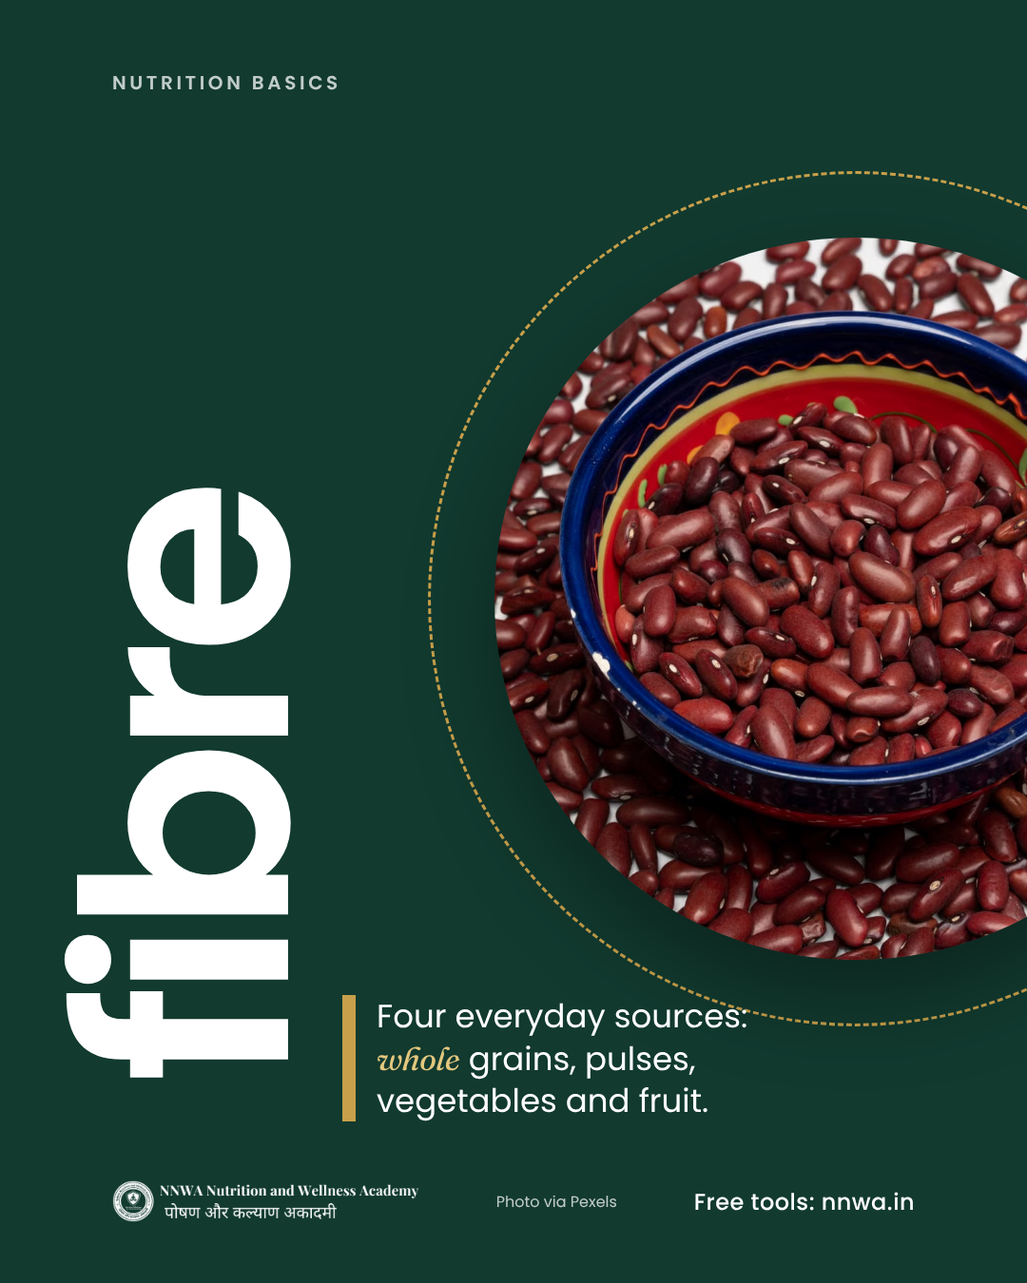
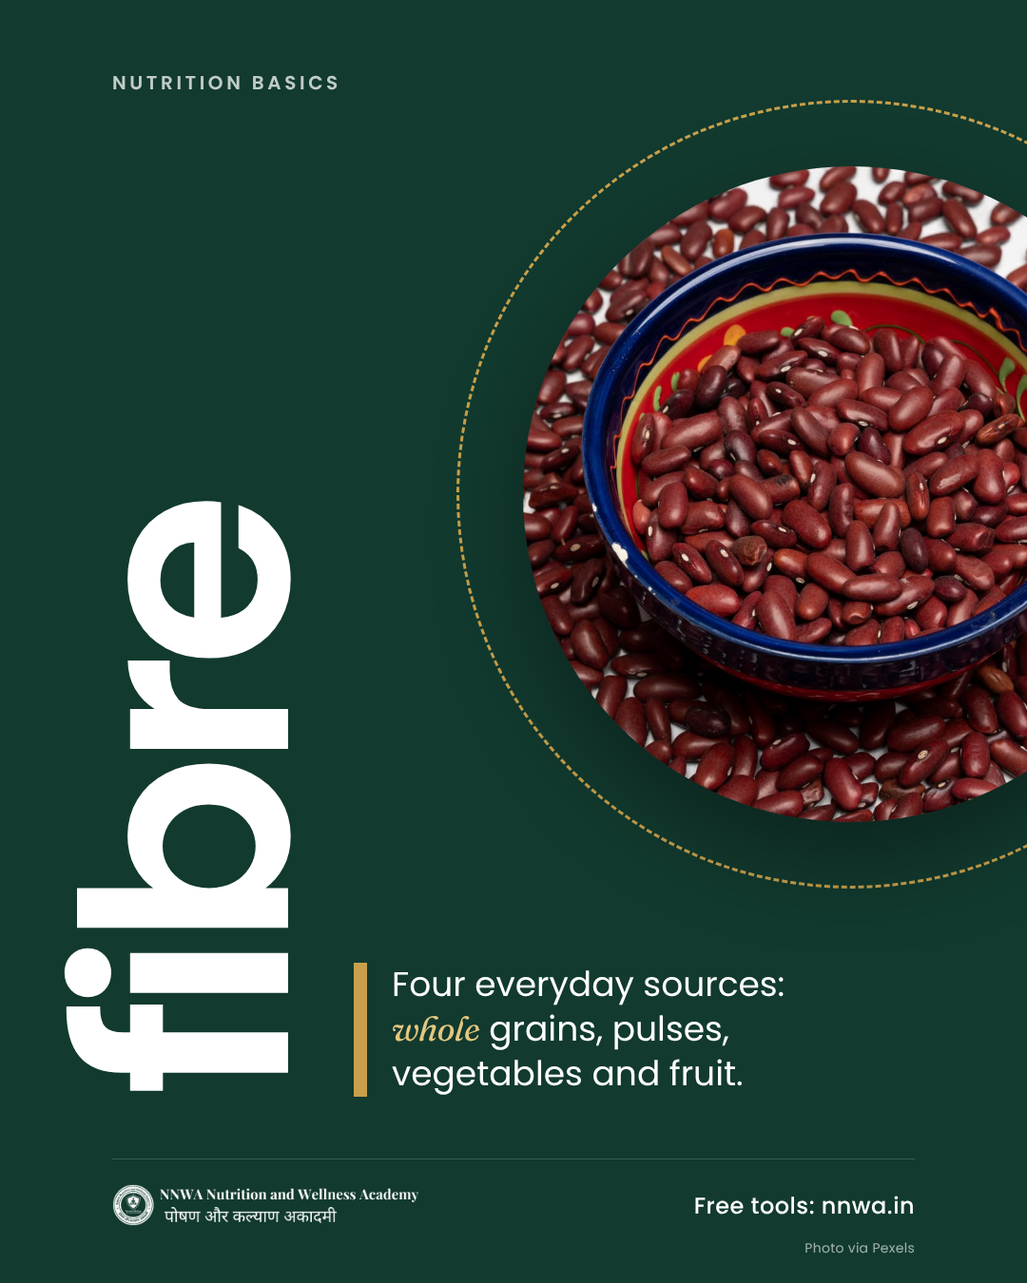
Polish 2 Nov creatives: clear the dashed ring from the fibre text, tidy footers, drop Story watermark
Adds an automatic overlap audit (campaigns/2026-11/polish/) and flow-based
vword, stat, annot and step layouts so text can no longer collide with photos
or rings. Only the three 2 Nov images are re-rendered so far.

Claude-Session: https://claude.ai/code/session_014ebVzeCbMrT2vdGA8XXv9x

diff --git a/campaigns/2026-11/tools/components.css b/campaigns/2026-11/tools/components.css
@@ -37,7 +37,11 @@ em, .em { font-family: var(--f-accent); font-style: italic; font-weight: 400; co
 .logo { height: var(--logo-h); width: auto; display: block; }
 .url { font-size: var(--t-small); font-weight: 500; color: var(--fg); letter-spacing: .02em; }
 .credit { font-size: 16px; color: var(--fg-muted); }
-.brandbar { position: absolute; left: calc(var(--pad) + var(--grid-safe-x)); right: calc(var(--pad) + var(--grid-safe-x)); bottom: 64px; display: flex; align-items: center; justify-content: space-between; }
+.brandbar { position: absolute; left: calc(var(--pad) + var(--grid-safe-x)); right: calc(var(--pad) + var(--grid-safe-x)); bottom: 60px; padding-top: 26px; border-top: 1.5px solid var(--line); display: flex; align-items: center; justify-content: space-between; }
+.brandbar .url { margin-left: auto; }
+.brandbar .credit { position: absolute; right: 0; bottom: -34px; font-size: 14px; letter-spacing: .02em; opacity: .8; }
+/* Content zone shared by flow layouts (v2.1, 1 Nov 2026): everything stacks inside it, so nothing can collide */
+.zone { position: absolute; left: calc(var(--pad) + var(--grid-safe-x)); right: calc(var(--pad) + var(--grid-safe-x)); top: 140px; bottom: 196px; display: flex; flex-direction: column; }
 .topbar { position: absolute; left: calc(var(--pad) + var(--grid-safe-x)); right: calc(var(--pad) + var(--grid-safe-x)); top: 72px; display: flex; align-items: center; justify-content: space-between; }
 .sparkle { display: inline-block; width: 1em; height: 1em; }
 
@@ -48,37 +52,39 @@ em, .em { font-family: var(--f-accent); font-style: italic; font-weight: 400; co
 .l-glass .card .body { font-size: 28px; max-width: 760px; }
 
 /* ---------- L2 vertical-word ---------- */
-.l-vword .word { position: absolute; left: calc(var(--pad) + var(--grid-safe-x) - 40px); bottom: 210px; transform-origin: left bottom; transform: rotate(-90deg) translateY(100%); font-size: var(--t-mega); font-weight: 600; line-height: .8; letter-spacing: -0.05em; color: var(--fg); white-space: nowrap; }
-.l-vword .photo { width: 760px; height: 760px; right: -200px; top: 250px; box-shadow: 0 40px 90px rgba(0,0,0,0.35); }
-.l-vword .ring { width: 900px; height: 900px; right: -270px; top: 180px; }
+.l-vword .word { position: absolute; left: calc(var(--pad) + var(--grid-safe-x) - 40px); bottom: 196px; transform-origin: left bottom; transform: rotate(-90deg) translateY(100%); font-size: var(--t-mega); font-weight: 600; line-height: .8; letter-spacing: -0.05em; color: var(--fg); white-space: nowrap; }
+.l-vword .photo { width: 690px; height: 690px; right: -160px; top: 175px; box-shadow: 0 40px 90px rgba(0,0,0,0.35); }
+.l-vword .ring { width: 830px; height: 830px; right: -230px; top: 105px; }
 .l-vword .block { position: absolute; width: 300px; height: 380px; left: 360px; top: 520px; background: var(--c-brass); border-radius: 0; }
-.l-vword .note { position: absolute; left: 360px; right: 260px; bottom: 170px; display: flex; gap: 22px; }
+.l-vword .note { position: absolute; left: 372px; right: calc(var(--pad) + var(--grid-safe-x)); bottom: 196px; display: flex; gap: 26px; }
 .l-vword .note .bar { flex: none; }
-.l-vword .note p { font-size: 34px; line-height: 1.3; color: var(--fg); font-weight: 400; }
+.l-vword .note p { max-width: 500px; font-size: 36px; line-height: 1.3; color: var(--fg); font-weight: 400; }
 .l-vword .kicker { position: absolute; left: 360px; top: 300px; width: 300px; }
 
 /* ---------- L3 big-stat ---------- */
-.l-stat .eyebrowrow { position: absolute; left: calc(var(--pad) + var(--grid-safe-x)); top: 170px; }
-.l-stat .num { position: absolute; left: calc(var(--pad) + var(--grid-safe-x) - 14px); top: 250px; font-size: 230px; font-weight: 300; line-height: 1; letter-spacing: -0.06em; color: var(--fg); }
+.l-stat .zone { top: 170px; right: auto; width: 470px; }
+.l-stat .num { margin: 34px 0 0 -14px; font-size: 230px; font-weight: 300; line-height: 1; letter-spacing: -0.06em; color: var(--fg); white-space: nowrap; }
+.l-stat .num.long { font-size: 150px; margin-top: 46px; }
 .l-stat .num small { font-size: .32em; font-weight: 500; letter-spacing: -0.02em; margin-left: 10px; color: var(--em); }
-.l-stat .stat-label { position: absolute; left: calc(var(--pad) + var(--grid-safe-x)); top: 540px; width: 440px; font-size: 34px; line-height: 1.3; font-weight: 500; color: var(--fg); }
+.l-stat .stat-label { margin-top: 36px; width: 440px; font-size: 34px; line-height: 1.3; font-weight: 500; color: var(--fg); }
 .l-stat .photo { width: 600px; height: 600px; right: -170px; top: 470px; }
 .l-stat .ring { width: 720px; height: 720px; right: -230px; top: 410px; }
-.l-stat .facts { position: absolute; left: calc(var(--pad) + var(--grid-safe-x)); width: 440px; top: 860px; }
-.l-stat .fine { position: absolute; left: calc(var(--pad) + var(--grid-safe-x)); right: 330px; bottom: 150px; }
+.l-stat .facts { width: 440px; margin-top: auto; padding-top: 40px; }
+.l-stat .fine { margin-top: 28px; width: 440px; }
 
 /* ---------- L4 annotated-object ---------- */
-.l-annot .head { position: absolute; left: calc(var(--pad) + var(--grid-safe-x)); right: calc(var(--pad) + var(--grid-safe-x)); top: 130px; }
+.l-annot .zone { top: 130px; }
 .l-annot .head .h1 { font-size: 68px; }
-.l-annot .photo { width: 460px; height: 460px; left: 50%; margin-left: -230px; top: 660px; }
-.l-annot .ring { width: 560px; height: 560px; left: 50%; margin-left: -280px; top: 610px; }
-.l-annot .tag { position: absolute; width: 250px; }
+.l-annot .tags { display: grid; grid-template-columns: 1fr 1fr; column-gap: 72px; margin-top: 52px; }
+.l-annot .tag { padding-top: 18px; border-top: 3px solid var(--c-brass); }
 .l-annot .tag .label { color: var(--fg); }
-.l-annot .tag p { margin-top: 8px; font-size: 24px; line-height: 1.35; color: var(--fg-muted); }
-.l-annot .tag.left { left: calc(var(--pad) + var(--grid-safe-x)); top: 560px; padding-top: 18px; border-top: 3px solid var(--c-brass); }
-.l-annot .tag.right { right: calc(var(--pad) + var(--grid-safe-x)); top: 560px; text-align: right; padding-top: 18px; border-top: 3px solid var(--c-brass); }
-.l-annot .leader { position: absolute; width: 2px; background: var(--fg); opacity: .5; }
-.l-annot .fine { position: absolute; left: calc(var(--pad) + var(--grid-safe-x)); right: calc(var(--pad) + var(--grid-safe-x)); bottom: 140px; text-align: center; }
+.l-annot .tag p { margin-top: 10px; font-size: 26px; line-height: 1.35; color: var(--fg-muted); }
+.l-annot .tag.right { text-align: right; }
+.l-annot .stage { flex: 1 1 0; min-height: 0; display: flex; align-items: center; justify-content: center; padding: 40px 0 8px; }
+.l-annot .orb { position: relative; height: 100%; max-height: 500px; aspect-ratio: 1; }
+.l-annot .orb .ring { inset: 0; }
+.l-annot .orb .photo { inset: 42px; }
+.l-annot .fine { text-align: center; margin-top: 18px; }
 
 /* ---------- L5 tile-grid ---------- */
 .l-tiles .head { position: absolute; left: calc(var(--pad) + var(--grid-safe-x)); right: calc(var(--pad) + var(--grid-safe-x)); top: 150px; }
@@ -101,16 +107,17 @@ em, .em { font-family: var(--f-accent); font-style: italic; font-weight: 400; co
 .l-display .sub { position: absolute; left: calc(var(--pad) + var(--grid-safe-x)); right: calc(var(--pad) + var(--grid-safe-x)); top: 720px; font-size: 34px; line-height: 1.4; color: var(--fg-muted); }
 
 /* ---------- Carousel inner slides ---------- */
-.l-step .index { position: absolute; left: calc(var(--pad) + var(--grid-safe-x)); top: 150px; font-size: 200px; font-weight: 300; letter-spacing: -0.06em; line-height: 1; color: var(--c-brass); }
-.l-step .content { position: absolute; left: calc(var(--pad) + var(--grid-safe-x)); right: calc(var(--pad) + var(--grid-safe-x)); top: 400px; display: flex; flex-direction: column; gap: 34px; }
+.l-step .index { font-size: 170px; font-weight: 300; letter-spacing: -0.06em; line-height: 1; color: var(--c-brass); }
+.l-step .content { margin-top: 44px; display: flex; flex-direction: column; gap: 30px; }
 .l-step .h2 { font-size: 80px; }
 .l-step .body { font-size: 36px; }
 .l-step .facts { display: grid; grid-template-columns: 1fr 1fr; column-gap: 48px; margin-top: 6px; }
 .l-step .facts span { font-size: 30px; }
 .l-step .facts span:nth-last-child(2):nth-child(odd) { border-bottom: 1.5px solid var(--line); }
-.l-step .callout { position: absolute; left: calc(var(--pad) + var(--grid-safe-x)); right: calc(var(--pad) + var(--grid-safe-x)); bottom: 190px; padding: 44px 50px; display: flex; flex-direction: column; gap: 14px; }
+.l-step .callout { position: relative; padding: 44px 50px; display: flex; flex-direction: column; gap: 14px; }
 .l-step .callout .calc { font-size: 64px; font-weight: 300; letter-spacing: -0.04em; color: var(--fg); line-height: 1.05; }
-.l-step .photo { left: calc(var(--pad) + var(--grid-safe-x)); right: calc(var(--pad) + var(--grid-safe-x)); bottom: 190px; height: 400px; border-radius: var(--radius-tile); }
+.l-step .photo { position: relative; flex: 0 1 420px; min-height: 250px; border-radius: var(--radius-tile); }
+.l-step .gap { flex: 1 0 48px; }
 .l-step .photo::after { content: ""; position: absolute; inset: 0; border-radius: inherit; background: linear-gradient(0deg, rgba(11,38,32,0.70) 0%, rgba(11,38,32,0) 45%); }
 .l-step .photo .overline { position: absolute; left: 36px; bottom: 34px; z-index: 1; color: #fff; }
 .dots { position: absolute; right: calc(var(--pad) + var(--grid-safe-x)); top: 84px; display: flex; gap: 10px; }

diff --git a/campaigns/2026-11/polish/audit.js b/campaigns/2026-11/polish/audit.js
@@ -1,0 +1,63 @@
+// Collision audit, evaluated inside a rendered creative page.
+// Reports text that touches photos, dashed rings, seals, logos or other text,
+// and text outside the safe area. Returns a list of strings.
+() => {
+  const W = innerWidth, H = innerHeight, out = [];
+  const name = el => (el.className && typeof el.className === 'string' ? '.' + el.className.split(' ').join('.') : el.tagName.toLowerCase());
+  const path = el => { const p = []; for (let e = el; e && e !== document.body && p.length < 3; e = e.parentElement) p.unshift(name(e)); return p.join('>'); };
+  // text line boxes: one rect per text node line
+  const texts = [];
+  const tw = document.createTreeWalker(document.body, NodeFilter.SHOW_TEXT);
+  for (let n; (n = tw.nextNode());) {
+    if (!n.textContent.trim()) continue;
+    const el = n.parentElement, cs = getComputedStyle(el);
+    if (cs.visibility === 'hidden' || cs.display === 'none' || +cs.opacity === 0) continue;
+    const r = document.createRange(); r.selectNodeContents(n);
+    // Range rects cover the font's full ascent+descent; trim to roughly the inked glyphs
+    const fs = parseFloat(cs.fontSize);
+    let rot = false; for (let e = el; e; e = e.parentElement) { const tf = getComputedStyle(e).transform; if (tf && tf !== 'none' && !/^matrix\(1, 0, 0, 1/.test(tf)) { rot = true; break; } }
+    for (const q of r.getClientRects()) {
+      if (q.width <= 1 || q.height <= 1) continue;
+      let b = { left: q.left, right: q.right, top: q.top, bottom: q.bottom };
+      if (rot && q.height > q.width) { b.left += 0.30 * fs; b.right -= 0.30 * fs; }
+      else { b.top += 0.26 * fs; b.bottom -= 0.14 * fs; }
+      texts.push({ el, b, t: n.textContent.trim().slice(0, 40) });
+    }
+  }
+  const block = q => [...document.querySelectorAll(q)].filter(e => getComputedStyle(e).display !== 'none');
+  const obst = [];
+  for (const e of block('.photo, .tile, .page, .feed')) {
+    if (e.parentElement.classList.contains('panel')) continue; // report header: text on a dimmed photo panel by design
+    const b = e.getBoundingClientRect(), circ = e.classList.contains('circle');
+    obst.push({ e, b, kind: circ ? 'circle' : 'rect' });
+  }
+  for (const e of block('.ring')) obst.push({ e, b: e.getBoundingClientRect(), kind: 'ring' });
+  for (const e of block('.seal, .logo, .dots, .bar, .deco')) obst.push({ e, b: e.getBoundingClientRect(), kind: 'rect' });
+  const pad = 6;
+  const hitRect = (a, b) => a.left < b.right + pad && a.right > b.left - pad && a.top < b.bottom + pad && a.bottom > b.top - pad;
+  const near = (cx, cy, b) => { const x = Math.max(b.left, Math.min(cx, b.right)), y = Math.max(b.top, Math.min(cy, b.bottom)); return Math.hypot(x - cx, y - cy); };
+  const far = (cx, cy, b) => Math.max(...[[b.left, b.top], [b.right, b.top], [b.left, b.bottom], [b.right, b.bottom]].map(([x, y]) => Math.hypot(x - cx, y - cy)));
+  for (const t of texts) {
+    for (const o of obst) {
+      if (o.e.contains(t.el)) continue;
+      // text sitting on a full-bleed photo with an overlay is intended
+      if (o.kind === 'rect' && o.b.width >= W - 2 && o.b.height >= H - 2) continue;
+      const cx = (o.b.left + o.b.right) / 2, cy = (o.b.top + o.b.bottom) / 2, r = o.b.width / 2;
+      let hit = false;
+      if (o.kind === 'rect') hit = hitRect(t.b, o.b);
+      else if (o.kind === 'circle') hit = near(cx, cy, t.b) < r + pad;
+      else hit = near(cx, cy, t.b) < r + pad && far(cx, cy, t.b) > r - pad;
+      if (hit) out.push(`TEXT/${o.kind.toUpperCase()}  "${t.t}" [${path(t.el)}] x ${path(o.e)}`);
+    }
+    if (t.b.left < 0 || t.b.right > W || t.b.top < 0 || t.b.bottom > H) out.push(`OFFCANVAS "${t.t}"`);
+  }
+  // text on text (different elements, not ancestors)
+  for (let i = 0; i < texts.length; i++) for (let j = i + 1; j < texts.length; j++) {
+    const a = texts[i], b = texts[j];
+    if (a.el === b.el || a.el.contains(b.el) || b.el.contains(a.el)) continue;
+    const ox = Math.min(a.b.right, b.b.right) - Math.max(a.b.left, b.b.left), oy = Math.min(a.b.bottom, b.b.bottom) - Math.max(a.b.top, b.b.top);
+    if (ox > 2 && oy > 2) out.push(`TEXT/TEXT "${a.t}" x "${b.t}"`);
+  }
+  // non-text block overlaps that look accidental: photo vs ring is intended; photo vs logo/seal is not
+  return [...new Set(out)];
+}

diff --git a/campaigns/2026-11/am-stories/am.html b/campaigns/2026-11/am-stories/am.html
@@ -14,7 +14,8 @@ body{font-family:Poppins,sans-serif;position:relative}
 .s{position:absolute;inset:0;overflow:hidden}
 .forest{background:radial-gradient(120% 70% at 85% 0%,#1F5C4C 0%,#123A2F 55%,#0B2620 100%);color:#fff}
 .paper{background:radial-gradient(120% 70% at 85% 0%,#fff 0%,#FBF8F1 50%,#F1ECDF 100%);color:var(--ink)}
-.bigday{position:absolute;right:-30px;top:150px;font-family:Fraunces;font-style:italic;font-weight:300;font-size:620px;line-height:1;letter-spacing:-.04em;opacity:.045}
+/* 1 Nov polish: the day watermark and dashed ring sat under the headline and card; removed */
+.bigday{display:none;position:absolute;right:-30px;top:150px;font-family:Fraunces;font-style:italic;font-weight:300;font-size:620px;line-height:1;letter-spacing:-.04em;opacity:.045}
 .ring{position:absolute;right:-260px;top:120px;width:760px;height:760px;border:2px dashed var(--brass);border-radius:50%;opacity:.35}
 .top{position:absolute;left:96px;right:96px;top:270px;display:flex;justify-content:space-between;align-items:center}
 .top img{height:58px}
@@ -47,7 +48,7 @@ h1 em{font-family:Fraunces;font-style:italic;font-weight:400;letter-spacing:-.01
 .tie q{font-weight:500;font-size:30px;quotes:"\201C" "\201D"}
 .tap{position:absolute;left:0;right:0;text-align:center;font-weight:500;font-size:26px;letter-spacing:.04em;opacity:.85}
 .tap i{display:block;font-style:normal;color:var(--brass);font-size:44px;line-height:1;margin-top:8px}
-.foot{position:absolute;left:96px;right:96px;top:1640px;display:flex;justify-content:space-between;align-items:flex-end;font-size:24px;line-height:1.35}
+.foot{position:absolute;left:96px;right:96px;top:1612px;padding-top:28px;border-top:1.5px solid rgba(127,127,127,.25);display:flex;justify-content:space-between;align-items:flex-end;font-size:24px;line-height:1.35}
 .foot .c{max-width:640px}
 .foot .c b{font-weight:600}
 .foot .u{font-weight:600;font-size:28px}
@@ -68,7 +69,7 @@ window.build=function(d){
   let flow='';
   if(d.flow){const[ins,out]=d.flow;flow=`<div class="flow">${ins.map(x=>`<span class="in">${x}</span>`).join('<span class="plus">+</span>')}<span class="arr">&rarr;</span><span class="out">${out}</span></div>`}
   const rows=d.rows.map((r,i)=>`<div class="row"><b>0${i+1}</b><span>${r}</span></div>`).join('');
-  s.innerHTML=`<div class="ring"></div><div class="bigday">${d.day}</div>
+  s.innerHTML=`
    <div class="top"><img src="../motion/assets/${logo}"><div class="date">Day ${d.day} &middot; November</div></div>
    <div class="over">Today's ${d.kind.replace('Free ','free ')}</div><div class="icon">${kindIcon(d.kind)}</div>
    <h1 id="h">${d.head}</h1>

diff --git a/campaigns/2026-11/polish/audit-shoot.js b/campaigns/2026-11/polish/audit-shoot.js
@@ -1,0 +1,24 @@
+// node audit-shoot.js jobs.json report.json : screenshot each job and run audit.js in the page.
+const { chromium } = require('playwright');
+const fs = require('fs'), path = require('path');
+const AUDIT = fs.readFileSync(path.join(__dirname, 'audit.js'), 'utf8');
+(async () => {
+  const jobs = JSON.parse(fs.readFileSync(process.argv[2], 'utf8'));
+  const browser = await chromium.launch();
+  const report = {};
+  for (const j of jobs) {
+    const pg = await browser.newPage({ viewport: { width: j.w, height: j.h } });
+    await pg.goto('file://' + j.html, { waitUntil: 'networkidle' });
+    await pg.evaluate(() => document.fonts.ready);
+    await pg.waitForTimeout(250);
+    const issues = await pg.evaluate(`(${AUDIT})()`);
+    await pg.screenshot({ path: j.out });
+    await pg.screenshot({ path: j.out.replace(/\.png$/, '.jpg'), type: 'jpeg', quality: 90 });
+    await pg.close();
+    report[path.basename(j.out)] = issues;
+    console.log((issues.length ? 'FAIL ' : 'ok   ') + path.basename(j.out));
+    for (const x of issues) console.log('      ' + x);
+  }
+  fs.writeFileSync(process.argv[3], JSON.stringify(report, null, 1));
+  await browser.close();
+})();

diff --git a/campaigns/2026-11/tools/render.py b/campaigns/2026-11/tools/render.py
@@ -87,17 +87,19 @@ def body(d):
 <div class="note"><div class="bar"></div><p>{g("note")}</p></div>{brandbar({"credit": g("credit")}, t)}'''
     if L == "stat":
         chips = "".join(f'<span>{c}</span>' for c in g("chips", []))
+        longnum = " long" if len(str(g("number"))) > 4 else ""
+        fine = f'<p class="fine">{g("fine")}</p>' if g("fine") else ""
         return f'''<div class="topbar"><span class="label">{g("label","")}</span></div>{dots(d)}
 <div class="ring"></div>{photo(d, "circle")}
-<div class="eyebrowrow"><span class="overline"><i class="rule"></i>{g("pill","")}</span></div>
-<div class="num">{g("number")}<small>{g("unit","")}</small></div><div class="stat-label">{g("stat_label")}</div>
-<div class="facts">{chips}</div><p class="fine">{g("fine","")}</p>{brandbar({"credit": g("credit")}, t)}'''
+<div class="zone"><div><span class="overline"><i class="rule"></i>{g("pill","")}</span></div>
+<div class="num{longnum}">{g("number")}<small>{g("unit","")}</small></div><div class="stat-label">{g("stat_label")}</div>
+<div class="facts">{chips}</div>{fine}</div>{brandbar({"credit": g("credit")}, t)}'''
     if L == "annot":
         a, b = g("tags")
-        return f'''<div class="head"><span class="label">{g("label","")}</span><div class="h1" style="margin-top:22px">{g("headline")}</div></div>
-<div class="ring"></div>{photo(d, "circle")}
-<div class="tag left"><div class="label">{a[0]}</div><p>{a[1]}</p></div><div class="tag right"><div class="label">{b[0]}</div><p>{b[1]}</p></div>
-<p class="fine">{g("fine","")}</p>{brandbar({"credit": g("credit")}, t)}'''
+        fine = f'<p class="fine">{g("fine")}</p>' if g("fine") else ""
+        return f'''<div class="zone"><div class="head"><span class="label">{g("label","")}</span><div class="h1" style="margin-top:22px">{g("headline")}</div></div>
+<div class="tags"><div class="tag left"><div class="label">{a[0]}</div><p>{a[1]}</p></div><div class="tag right"><div class="label">{b[0]}</div><p>{b[1]}</p></div></div>
+<div class="stage"><div class="orb"><div class="ring"></div>{photo(d, "circle")}</div></div>{fine}</div>{brandbar({"credit": g("credit")}, t)}'''
     if L == "tiles":
         tiles = "".join(f'<div class="tile" style="background-image:url(\'{src(x["photo"])}\');background-position:{x.get("pos","center")}"><div class="glass"><b>{x["title"]}</b><span>{x["sub"]}</span></div></div>' for x in g("tiles"))
         return f'''<div class="head"><span class="label">{g("label","")}</span><div class="h1" style="margin-top:22px">{g("headline")}</div></div>{dots(d)}
@@ -111,8 +113,9 @@ def body(d):
         ph = photo(d, "", f'<span class="overline"><i class="rule"></i>{g("photo_tag","")}</span>') if g("photo") else ""
         chips = '<div class="facts">' + "".join(f'<span>{c}</span>' for c in g("chips", [])) + "</div>" if g("chips") else ""
         call = f'<div class="callout glass"><span class="label">{g("callout_label","")}</span><div class="calc">{g("callout")}</div></div>' if g("callout") else ""
-        return f'''{dots(d)}<div class="index">{g("index")}</div>
-<div class="content"><div class="h2">{g("headline")}</div><div class="body">{g("body","")}</div>{chips}</div>{ph}{call}{brandbar({"credit": g("credit")}, t)}'''
+        gap = '<div class="gap"></div>' if (ph or call) else ""
+        return f'''{dots(d)}<div class="zone"><div class="index">{g("index")}</div>
+<div class="content"><div class="h2">{g("headline")}</div><div class="body">{g("body","")}</div>{chips}</div>{gap}{ph}{call}</div>{brandbar({"credit": g("credit")}, t)}'''
     if L == "cta":
         return f'''{dots(d)}<div class="content"><img class="seal" src="../design-system/assets/nnwa-seal.png" alt=""><div class="h1">{g("headline")}</div><div class="body">{g("body","")}</div><div><span class="overline"><i class="rule"></i>{g("pill","")}</span></div></div>{brandbar({}, t)}'''
     if L == "reel":

diff --git a/campaigns/2026-11/polish/specs_all.py b/campaigns/2026-11/polish/specs_all.py
@@ -1,0 +1,50 @@
+"""Collect every static November creative spec into one {output file: spec} map.
+
+python3 polish/specs_all.py <out.json>
+Sources: creatives.py (new creatives), week1-specs/ and the skill's v2 examples (1 to 8 Nov).
+"""
+import copy, json, os, sys
+HERE = os.path.dirname(os.path.abspath(__file__))
+CAMP = os.path.dirname(HERE)
+sys.path.insert(0, CAMP)
+import creatives as CR  # noqa: E402
+
+EX = os.environ.get("NNWA_SKILL", "") + "/templates/examples/"
+LM = "/mnt/project-files/lead-magnet-funnel/creative-source/"
+W1CTA = "Free tools: nnwa.in"
+
+
+def ld(p):
+    return json.load(open(p))
+
+
+def w1(p, **kw):
+    d = ld(p)
+    for s in d.get("slides", [d]):
+        if "cta" in s:  # held guide link (nnwa.in/protein) -> Free tools, as on the other week-1 posts
+            s["cta"] = W1CTA
+    d.update(kw)
+    return d
+
+
+S = {}
+S["2026-11-02-fibre.png"] = w1(os.path.join(CAMP, "week1-specs/d1-fibre-vword.json"))
+S["2026-11-03-protein"] = w1(os.path.join(CAMP, "week1-specs/d2-protein-carousel.json"), name="2026-11-03-protein")
+S["2026-11-04-reel-cover-500g.png"] = w1(EX + "d3-veg-reel.json")
+S["2026-11-05-salt-check.png"] = w1(os.path.join(CAMP, "week1-specs/d4-salt-annot.json"))
+S["2026-11-05-linkedin-numbers.png"] = w1(LM + "fmt-linkedin-report.json")
+S["2026-11-06-half-your-plate.png"] = w1(LM + "d5-plate-glass.json")
+S["2026-11-07-eat-the-colours.png"] = w1(LM + "d6-colours-tiles.json")
+S["2026-11-08-learn-apply.png"] = w1(LM + "d7-brand-display.json")
+for slug, spec in CR.C.items():
+    spec = copy.deepcopy(spec)
+    if spec.get("photo", "x") is None:
+        spec["photo"] = "file://" + CR.EB + "f-dal.jpg"
+    if "slides" in spec:
+        S[slug] = spec
+    else:
+        S[slug + (".png")] = spec
+
+if __name__ == "__main__":
+    json.dump(S, open(sys.argv[1], "w"), indent=1)
+    print(len(S), "specs")

diff --git a/campaigns/2026-11/polish/audit.py b/campaigns/2026-11/polish/audit.py
@@ -1,0 +1,36 @@
+"""Render specs and run the collision audit (Node Playwright).
+
+python3 audit.py <skill-dir> <specs.json> <out-dir> [filter ...]
+specs.json: {"<output file name>": spec, ...}; carousels expand to <name>-NN.png.
+Writes PNG + JPG per creative, prints every collision and saves _audit.json.
+"""
+import json, os, subprocess, sys, tempfile, uuid
+sys.path.insert(0, os.path.join(sys.argv[1], "scripts"))
+import render as R  # noqa: E402
+
+HERE = os.path.dirname(os.path.abspath(__file__))
+
+specs = json.load(open(sys.argv[2]))
+out = os.path.abspath(sys.argv[3])
+only = sys.argv[4:]
+os.makedirs(out, exist_ok=True)
+jobs, tmps = [], []
+for fname, spec in specs.items():
+    if only and not any(o in fname for o in only):
+        continue
+    items = [(s, f"{spec['name']}-{i:02d}.png") for i, s in enumerate(spec["slides"], 1)] if "slides" in spec else [(spec, fname)]
+    for i, (s, png) in enumerate(items, 1):
+        if "slides" in spec:
+            s.setdefault("dots", [i, len(items)])
+        html, w, h = R.page(s)
+        tmp = os.path.join(R.TPL, f"_audit-{uuid.uuid4().hex[:8]}.html")
+        open(tmp, "w").write(html)
+        tmps.append(tmp)
+        jobs.append({"html": tmp, "w": w, "h": h, "out": os.path.join(out, png), "transparent": False})
+jf = tempfile.NamedTemporaryFile("w", suffix=".json", delete=False)
+json.dump(jobs, jf); jf.close()
+try:
+    subprocess.run(["node", os.path.join(HERE, "audit-shoot.js"), jf.name, os.path.join(out, "_audit.json")], check=True)
+finally:
+    for t in tmps + [jf.name]:
+        os.remove(t)
